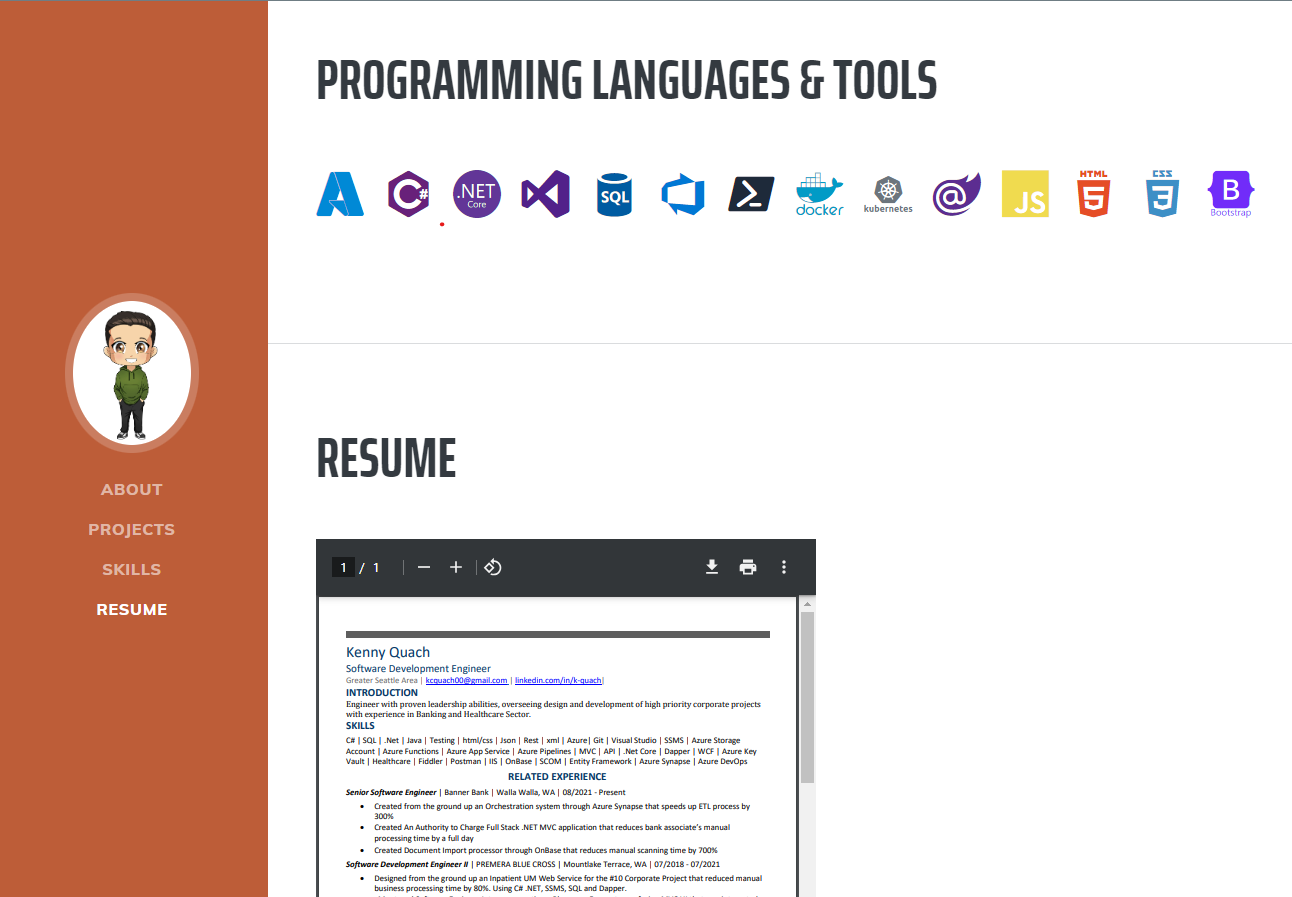
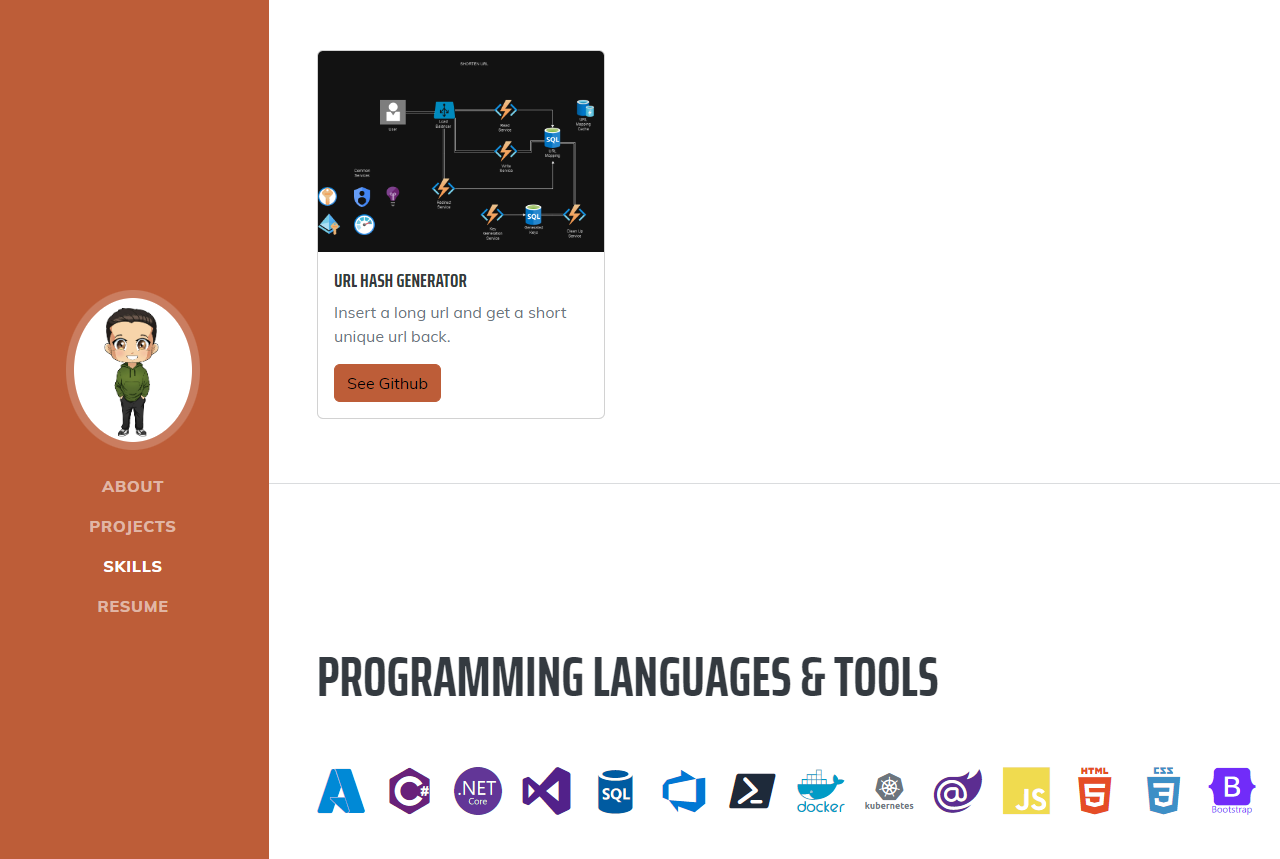
fixed description

diff --git a/src/index.html b/src/index.html
@@ -45,7 +45,7 @@
                         Software Engineer · Greater Seattle Area ·
                     <a href="mailto:kcquach00@gmail.com">kcquach00@gmail.com</a>
                     </div>
-                    <p class="lead mb-5">I currently work with C#/.NET Stack and Azure. My preferred work style is being in a flow state while working through tough technical challenges. I am interested in opportunities where I will have the chance to build/design APIs and Microservices. </p>
+                    <p class="lead mb-5">Software Engineer who started working professionally with C#/.NET Stack and Azure since 2017. I enjoy being in a flow state while working through technical challenges. Interested in opportunities where I will have the chance to build/design APIs and Microservices. </p>
                 </div>
             </section>
             <hr class="m-0" />
@@ -125,11 +125,11 @@
             <section class="resume-section" id="resume">
                 <div class="resume-section-content">
                     <h2 class="mb-5">Resume</h2>
-                    <object data="mypdf.pdf" type="application/pdf" frameborder="0" width="100%" height="600px" style="padding: 20px;">
+                    <!-- <object data="mypdf.pdf" type="application/pdf" frameborder="0" width="100%" height="600px" style="padding: 20px;">
                         <iframe  src="https://kcq00allpurpose.blob.core.windows.net/imgkcq00/KQuach_Resume_2023_SDE%20-%20Portfolio.pdf?sp=r&st=2024-08-08T05:03:38Z&se=2025-09-12T13:03:38Z&spr=https&sv=2022-11-02&sr=b&sig=BFgGkCDFkzk9RKNOosrK7oZoCsl65VcQjkXiAPLyAdI%3D#zoom=FitW" width="100%" height="600px"></iframe> 
                     </object>
-                        <hr>
-                    <a href= "https://kcq00allpurpose.blob.core.windows.net/imgkcq00/KQuach_Resume_2023_SDE%20-%20Portfolio.pdf?sp=r&st=2024-08-08T05:03:38Z&se=2025-09-12T13:03:38Z&spr=https&sv=2022-11-02&sr=b&sig=BFgGkCDFkzk9RKNOosrK7oZoCsl65VcQjkXiAPLyAdI%3D" target="_blank">My resume</a>
+                        <hr> -->
+                    <a href= "https://kcq00allpurpose.blob.core.windows.net/imgkcq00/KQuach_Resume_2023_SDE%20-%20Portfolio.pdf?sp=r&st=2024-08-08T05:03:38Z&se=2025-09-12T13:03:38Z&spr=https&sv=2022-11-02&sr=b&sig=BFgGkCDFkzk9RKNOosrK7oZoCsl65VcQjkXiAPLyAdI%3D" target="_blank">MY RESUME</a>
                     <p>Copyright &copy; Kenny Quach <script type="text/javascript">document.write( new Date().getFullYear() );</script>
                         All rights reserved</p>
                 </div>
